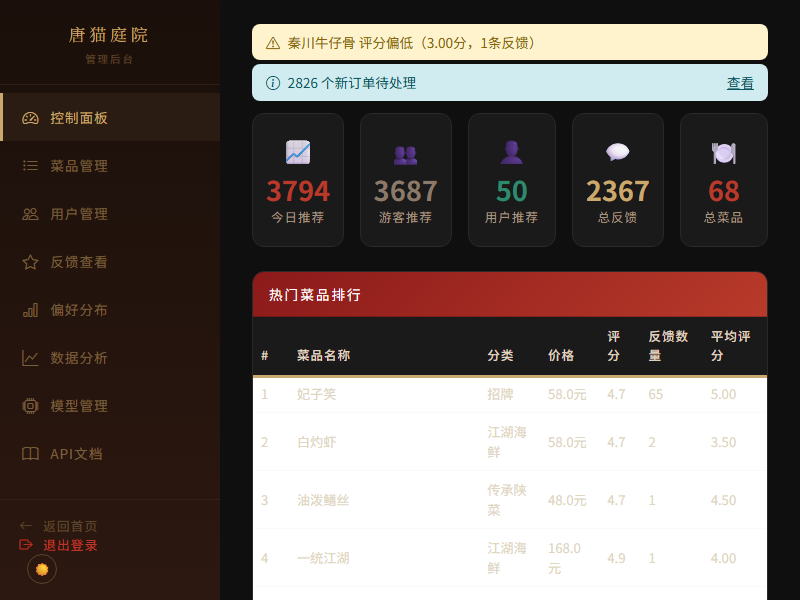
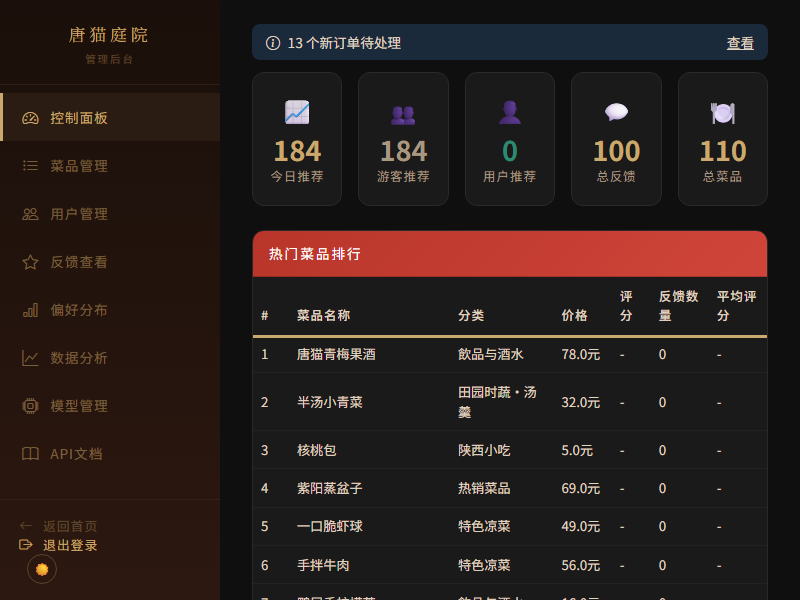
优化: 咸淡/热量规则摆幅升级(差2级以上-1→-2)+全面清理测试数据(170账号留3/清100反馈22订单)+模型迁移HistGB+重训R²0.959

diff --git a/assets/logo/preview.html b/assets/logo/preview.html
@@ -454,7 +454,7 @@
 
 <!-- 真实数据附录 -->
 <div style="max-width:900px;margin:36px auto 0;">
-<div class="card" style="padding:24px;"><h2 style="margin:0 0 6px;font-size:16px;letter-spacing:2px;">附 · 模型的十二维(真实数据)</h2><p style="margin:0 0 14px;font-size:12px;color:#756558;line-height:1.7;">上面 H 案的十二边形不是抽象装饰 — 这就是它的真身:当前随机森林模型(2026-09-16 训练,留出 R²=0.974)真实学到的十二个特征权重。用户口味侧主导(用户甜酸 27%),价格侧次之(22.8%);「评分」权重为 0 — 项目未上线,菜品评分均为默认值 3.5,常量特征不产生信息(预期行为)。上线后每次重训,此图自动更新。<br><b>怎么读这张图:</b>特征重要性是<b>全局平均贡献</b>(该特征在全部训练样本上带来的可分性占比),不是"单次预测是否被使用"。咸淡/热量权重低,是因为菜品分布聚集(71% 咸淡="适中",42 道饮品无热量)导致多数比较为平局 — 但实测模型对真实错配照样惩罚(用户清淡时,偏咸菜被打低 0.04~0.15)。低权重 ≠ 被忽视;真正完全无信号的是恒定特征(评分,全为默认 3.5)。</p><svg xmlns="http://www.w3.org/2000/svg" viewBox="-90 0 580 450" style="width:100%;max-width:900px;height:auto;display:block;margin:0 auto;" font-family="sans-serif"><rect x="-90" y="0" width="580" height="450" fill="#faf6f0"/><text x="250" y="30" text-anchor="middle" font-size="16" fill="#2c1810">随机森林模型 · 12 特征重要性(真实数据)</text><text x="250" y="52" text-anchor="middle" font-size="11" fill="#756558">数据源:feature_importance.json · 2026-09-17 训练 · 留出 R²=0.970</text><circle cx="250" cy="235" r="23.3" fill="none" stroke="#c9a96e" stroke-width="0.8" opacity="0.5"/><text x="254" y="224.66666666666666" font-size="10" fill="#a08b6a">5%</text><circle cx="250" cy="235" r="46.7" fill="none" stroke="#c9a96e" stroke-width="0.8" opacity="0.5"/><text x="254" y="201.33333333333334" font-size="10" fill="#a08b6a">10%</text><circle cx="250" cy="235" r="70.0" fill="none" stroke="#c9a96e" stroke-width="0.8" opacity="0.5"/><text x="254" y="178" font-size="10" fill="#a08b6a">15%</text><circle cx="250" cy="235" r="93.3" fill="none" stroke="#c9a96e" stroke-width="0.8" opacity="0.5"/><text x="254" y="154.66666666666669" font-size="10" fill="#a08b6a">20%</text><circle cx="250" cy="235" r="116.7" fill="none" stroke="#c9a96e" stroke-width="0.8" opacity="0.5"/><text x="254" y="131.33333333333331" font-size="10" fill="#a08b6a">25%</text><circle cx="250" cy="235" r="140.0" fill="none" stroke="#c9a96e" stroke-width="0.8" opacity="0.5"/><text x="254" y="108" font-size="10" fill="#a08b6a">30%</text><line x1="250" y1="235" x2="250.0" y2="95.0" stroke="#c9a96e" stroke-width="0.8" opacity="0.5"/><text x="250.0" y="65.0" font-size="14" fill="#2c1810" text-anchor="middle">辣度 5.97%</text><line x1="250" y1="235" x2="320.0" y2="113.8" stroke="#c9a96e" stroke-width="0.8" opacity="0.5"/><text x="332.0" y="97.0" font-size="14" fill="#2c1810" text-anchor="start">咸淡 3.48%</text><line x1="250" y1="235" x2="371.2" y2="165.0" stroke="#c9a96e" stroke-width="0.8" opacity="0.5"/><text x="392.0" y="157.0" font-size="14" fill="#2c1810" text-anchor="start">甜酸 3.98%</text><line x1="250" y1="235" x2="390.0" y2="235.0" stroke="#c9a96e" stroke-width="0.8" opacity="0.5"/><text x="414.0" y="239.0" font-size="14" fill="#2c1810" text-anchor="start">热量 2.4%</text><line x1="250" y1="235" x2="371.2" y2="305.0" stroke="#c9a96e" stroke-width="0.8" opacity="0.5"/><text x="392.0" y="321.0" font-size="14" fill="#2c1810" text-anchor="start">价格 18.52%</text><line x1="250" y1="235" x2="320.0" y2="356.2" stroke="#c9a96e" stroke-width="0.8" opacity="0.5"/><text x="332.0" y="381.0" font-size="14" fill="#2c1810" text-anchor="start">招牌 0.45%</text><line x1="250" y1="235" x2="250.0" y2="375.0" stroke="#c9a96e" stroke-width="0.8" opacity="0.5"/><text x="250.0" y="411.0" font-size="14" fill="#2c1810" text-anchor="middle">评分 0%</text><line x1="250" y1="235" x2="180.0" y2="356.2" stroke="#c9a96e" stroke-width="0.8" opacity="0.5"/><text x="168.0" y="381.0" font-size="14" fill="#2c1810" text-anchor="end">用户辣度 18.35%</text><line x1="250" y1="235" x2="128.8" y2="305.0" stroke="#c9a96e" stroke-width="0.8" opacity="0.5"/><text x="108.0" y="321.0" font-size="14" fill="#2c1810" text-anchor="end">用户咸淡 4.65%</text><line x1="250" y1="235" x2="110.0" y2="235.0" stroke="#c9a96e" stroke-width="0.8" opacity="0.5"/><text x="86.0" y="239.0" font-size="14" fill="#2c1810" text-anchor="end">用户甜酸 23.15%</text><line x1="250" y1="235" x2="128.8" y2="165.0" stroke="#c9a96e" stroke-width="0.8" opacity="0.5"/><text x="108.0" y="157.0" font-size="14" fill="#2c1810" text-anchor="end">用户价格 15.13%</text><line x1="250" y1="235" x2="180.0" y2="113.8" stroke="#c9a96e" stroke-width="0.8" opacity="0.5"/><text x="168.0" y="97.0" font-size="14" fill="#2c1810" text-anchor="end">用户热量 3.91%</text><polygon points="250.0,207.1 258.1,220.9 266.1,225.7 261.2,235.0 324.8,278.2 251.1,236.8 250.0,235.0 207.2,309.2 231.2,245.8 142.0,235.0 188.9,199.7 240.9,219.2" fill="#b83a2a" opacity="0.82" stroke="#b83a2a" stroke-width="2"/><circle cx="250.0" cy="207.1" r="3.2" fill="#c9a96e" stroke="#b83a2a" stroke-width="1"/><circle cx="258.1" cy="220.9" r="3.2" fill="#c9a96e" stroke="#b83a2a" stroke-width="1"/><circle cx="266.1" cy="225.7" r="3.2" fill="#c9a96e" stroke="#b83a2a" stroke-width="1"/><circle cx="261.2" cy="235.0" r="3.2" fill="#c9a96e" stroke="#b83a2a" stroke-width="1"/><circle cx="324.8" cy="278.2" r="3.2" fill="#c9a96e" stroke="#b83a2a" stroke-width="1"/><circle cx="207.2" cy="309.2" r="3.2" fill="#c9a96e" stroke="#b83a2a" stroke-width="1"/><circle cx="231.2" cy="245.8" r="3.2" fill="#c9a96e" stroke="#b83a2a" stroke-width="1"/><circle cx="142.0" cy="235.0" r="3.2" fill="#c9a96e" stroke="#b83a2a" stroke-width="1"/><circle cx="188.9" cy="199.7" r="3.2" fill="#c9a96e" stroke="#b83a2a" stroke-width="1"/><circle cx="240.9" cy="219.2" r="3.2" fill="#c9a96e" stroke="#b83a2a" stroke-width="1"/></svg></div></div>
+<div class="card" style="padding:24px;"><h2 style="margin:0 0 6px;font-size:16px;letter-spacing:2px;">附 · 模型的十二维(真实数据)</h2><p style="margin:0 0 14px;font-size:12px;color:#756558;line-height:1.7;">上面 H 案的十二边形不是抽象装饰 — 这就是它的真身:当前随机森林模型(2026-09-16 训练,留出 R²=0.974)真实学到的十二个特征权重。用户口味侧主导(用户甜酸 27%),价格侧次之(22.8%);「评分」权重为 0 — 项目未上线,菜品评分均为默认值 3.5,常量特征不产生信息(预期行为)。上线后每次重训,此图自动更新。<br><b>怎么读这张图:</b>特征重要性是<b>全局平均贡献</b>(该特征在全部训练样本上带来的可分性占比),不是"单次预测是否被使用"。咸淡/热量权重低,是因为菜品分布聚集(71% 咸淡="适中",42 道饮品无热量)导致多数比较为平局 — 但实测模型对真实错配照样惩罚(用户清淡时,偏咸菜被打低 0.04~0.15)。低权重 ≠ 被忽视;真正完全无信号的是恒定特征(评分,全为默认 3.5)。</p><svg xmlns="http://www.w3.org/2000/svg" viewBox="-90 0 580 450" style="width:100%;max-width:900px;height:auto;display:block;margin:0 auto;" font-family="sans-serif"><rect x="-90" y="0" width="580" height="450" fill="#faf6f0"/><text x="250" y="30" text-anchor="middle" font-size="16" fill="#2c1810">推荐模型 · 12 特征重要性(真实数据)</text><text x="250" y="52" text-anchor="middle" font-size="11" fill="#756558">数据源:feature_importance.json · 2026-09-17 规则负分化后重训 · 留出 R²=0.959</text><circle cx="250" cy="235" r="23.3" fill="none" stroke="#c9a96e" stroke-width="0.8" opacity="0.5"/><text x="254" y="224.66666666666666" font-size="10" fill="#a08b6a">5%</text><circle cx="250" cy="235" r="46.7" fill="none" stroke="#c9a96e" stroke-width="0.8" opacity="0.5"/><text x="254" y="201.33333333333334" font-size="10" fill="#a08b6a">10%</text><circle cx="250" cy="235" r="70.0" fill="none" stroke="#c9a96e" stroke-width="0.8" opacity="0.5"/><text x="254" y="178" font-size="10" fill="#a08b6a">15%</text><circle cx="250" cy="235" r="93.3" fill="none" stroke="#c9a96e" stroke-width="0.8" opacity="0.5"/><text x="254" y="154.66666666666669" font-size="10" fill="#a08b6a">20%</text><circle cx="250" cy="235" r="116.7" fill="none" stroke="#c9a96e" stroke-width="0.8" opacity="0.5"/><text x="254" y="131.33333333333331" font-size="10" fill="#a08b6a">25%</text><circle cx="250" cy="235" r="140.0" fill="none" stroke="#c9a96e" stroke-width="0.8" opacity="0.5"/><text x="254" y="108" font-size="10" fill="#a08b6a">30%</text><line x1="250" y1="235" x2="250.0" y2="95.0" stroke="#c9a96e" stroke-width="0.8" opacity="0.5"/><text x="250.0" y="65.0" font-size="14" fill="#2c1810" text-anchor="middle">辣度 7.7%</text><line x1="250" y1="235" x2="320.0" y2="113.8" stroke="#c9a96e" stroke-width="0.8" opacity="0.5"/><text x="332.0" y="97.0" font-size="14" fill="#2c1810" text-anchor="start">咸淡 3.22%</text><line x1="250" y1="235" x2="371.2" y2="165.0" stroke="#c9a96e" stroke-width="0.8" opacity="0.5"/><text x="392.0" y="157.0" font-size="14" fill="#2c1810" text-anchor="start">甜酸 4.06%</text><line x1="250" y1="235" x2="390.0" y2="235.0" stroke="#c9a96e" stroke-width="0.8" opacity="0.5"/><text x="414.0" y="239.0" font-size="14" fill="#2c1810" text-anchor="start">热量 3.63%</text><line x1="250" y1="235" x2="371.2" y2="305.0" stroke="#c9a96e" stroke-width="0.8" opacity="0.5"/><text x="392.0" y="321.0" font-size="14" fill="#2c1810" text-anchor="start">价格 13.2%</text><line x1="250" y1="235" x2="320.0" y2="356.2" stroke="#c9a96e" stroke-width="0.8" opacity="0.5"/><text x="332.0" y="381.0" font-size="14" fill="#2c1810" text-anchor="start">招牌 0.29%</text><line x1="250" y1="235" x2="250.0" y2="375.0" stroke="#c9a96e" stroke-width="0.8" opacity="0.5"/><text x="250.0" y="411.0" font-size="14" fill="#2c1810" text-anchor="middle">评分 0%</text><line x1="250" y1="235" x2="180.0" y2="356.2" stroke="#c9a96e" stroke-width="0.8" opacity="0.5"/><text x="168.0" y="381.0" font-size="14" fill="#2c1810" text-anchor="end">用户辣度 23.84%</text><line x1="250" y1="235" x2="128.8" y2="305.0" stroke="#c9a96e" stroke-width="0.8" opacity="0.5"/><text x="108.0" y="321.0" font-size="14" fill="#2c1810" text-anchor="end">用户咸淡 5.33%</text><line x1="250" y1="235" x2="110.0" y2="235.0" stroke="#c9a96e" stroke-width="0.8" opacity="0.5"/><text x="86.0" y="239.0" font-size="14" fill="#2c1810" text-anchor="end">用户甜酸 16.92%</text><line x1="250" y1="235" x2="128.8" y2="165.0" stroke="#c9a96e" stroke-width="0.8" opacity="0.5"/><text x="108.0" y="157.0" font-size="14" fill="#2c1810" text-anchor="end">用户价格 17.47%</text><line x1="250" y1="235" x2="180.0" y2="113.8" stroke="#c9a96e" stroke-width="0.8" opacity="0.5"/><text x="168.0" y="97.0" font-size="14" fill="#2c1810" text-anchor="end">用户热量 4.34%</text><polygon points="250.0,199.1 257.5,222.0 266.4,225.5 266.9,235.0 303.3,265.8 250.7,236.2 250.0,235.0 194.4,331.3 228.5,247.4 171.0,235.0 179.4,194.2 239.9,217.5" fill="#b83a2a" opacity="0.82" stroke="#b83a2a" stroke-width="2"/><circle cx="250.0" cy="199.1" r="3.2" fill="#c9a96e" stroke="#b83a2a" stroke-width="1"/><circle cx="257.5" cy="222.0" r="3.2" fill="#c9a96e" stroke="#b83a2a" stroke-width="1"/><circle cx="266.4" cy="225.5" r="3.2" fill="#c9a96e" stroke="#b83a2a" stroke-width="1"/><circle cx="266.9" cy="235.0" r="3.2" fill="#c9a96e" stroke="#b83a2a" stroke-width="1"/><circle cx="303.3" cy="265.8" r="3.2" fill="#c9a96e" stroke="#b83a2a" stroke-width="1"/><circle cx="194.4" cy="331.3" r="3.2" fill="#c9a96e" stroke="#b83a2a" stroke-width="1"/><circle cx="228.5" cy="247.4" r="3.2" fill="#c9a96e" stroke="#b83a2a" stroke-width="1"/><circle cx="171.0" cy="235.0" r="3.2" fill="#c9a96e" stroke="#b83a2a" stroke-width="1"/><circle cx="179.4" cy="194.2" r="3.2" fill="#c9a96e" stroke="#b83a2a" stroke-width="1"/><circle cx="239.9" cy="217.5" r="3.2" fill="#c9a96e" stroke="#b83a2a" stroke-width="1"/></svg></div></div>
 
 <!-- 小尺寸引用的统一符号定义（与卡内浅底版一致） -->
 <svg width="0" height="0" style="position:absolute">

diff --git a/assets/logo/_project_directions.html b/assets/logo/_project_directions.html
@@ -1,0 +1,1 @@
+<!DOCTYPE html><html lang="zh-CN"><head><meta charset="UTF-8"><title>项目味 Logo · 三方向</title><style>body{margin:0;background:#efe9dc;color:#2c1810;font-family:serif;padding:32px 24px;}h1{font-size:22px;letter-spacing:6px;}.grid{display:grid;grid-template-columns:repeat(auto-fit,minmax(320px,1fr));gap:20px;max-width:1200px;}.card{background:#fff;border:1px solid #ddd2bc;border-radius:14px;overflow:hidden;box-shadow:0 2px 10px rgba(60,30,10,.08);}.card header{padding:14px 18px 10px;border-bottom:1px solid #eee2c8;}.card h2{margin:0;font-size:16px;letter-spacing:2px;}.card header p{margin:4px 0 0;font-size:12px;color:#756558;line-height:1.6;}.cell{background:#faf6f0;}</style></head><body><h1>项目味 Logo · 三方向(App 图标制式)</h1><div class="grid"><div class="card"><header><h2>方向一 · AI 猫首</h2><p>金猫首 + AI 星火:星火是当下 AI 产品的通用符号,猫首沿用已验证的几何。读作:AI 化的唐猫。</p></header><div class="cell"><div style="display:flex;justify-content:center;padding:26px 10px;"><svg viewBox="0 0 100 100" xmlns="http://www.w3.org/2000/svg" style="width:200px;height:200px"><rect x="2" y="2" width="96" height="96" rx="26" fill="#b83a2a"/><rect x="8" y="8" width="84" height="84" rx="20" fill="none" stroke="#c9a96e" stroke-width="1.4" opacity="0.55"/><g fill="#c9a96e"><circle cx="46" cy="56" r="20"/><path d="M30.5 45.5 L35 22 L46.5 37 Z"/><path d="M61.5 45.5 L57 22 L45.5 37 Z"/></g><g fill="#b83a2a"><circle cx="39.5" cy="54.5" r="2.9"/><circle cx="52.5" cy="54.5" r="2.9"/><path d="M44 61.5 L48 61.5 L46 64.5 Z"/></g><path transform="translate(70 26) scale(1.5)" d="M0,-10 C1.8,-2.2 2.2,-1.8 10,0 C2.2,1.8 1.8,2.2 0,10 C-1.8,2.2 -2.2,1.8 -10,0 C-2.2,-1.8 -1.8,-2.2 0,-10 Z" fill="#c9a96e"/><path transform="translate(58 14) scale(0.8)" d="M0,-10 C1.8,-2.2 2.2,-1.8 10,0 C2.2,1.8 1.8,2.2 0,10 C-1.8,2.2 -2.2,1.8 -10,0 C-2.2,-1.8 -1.8,-2.2 0,-10 Z" fill="#c9a96e"/></svg></div></div></div><div class="card"><header><h2>方向二 · 已为你选好</h2><p>猫首 + 勾选徽章:徽章是 App 的通知语言,直译核心体验「AI 帮你选好了」。读作:推荐已完成。</p></header><div class="cell"><div style="display:flex;justify-content:center;padding:26px 10px;"><svg viewBox="0 0 100 100" xmlns="http://www.w3.org/2000/svg" style="width:200px;height:200px"><rect x="2" y="2" width="96" height="96" rx="26" fill="#b83a2a"/><rect x="8" y="8" width="84" height="84" rx="20" fill="none" stroke="#c9a96e" stroke-width="1.4" opacity="0.55"/><g fill="#c9a96e"><circle cx="47" cy="47" r="19"/><path d="M32.5 37.5 L37 16 L47.5 30 Z"/><path d="M61.5 37.5 L57 16 L46.5 30 Z"/></g><g fill="#b83a2a"><circle cx="41" cy="45.5" r="2.7"/><circle cx="53" cy="45.5" r="2.7"/><path d="M45.2 52 L50.8 52 L48 55.4 Z"/></g><circle cx="68" cy="68" r="15" fill="#c9a96e"/><path d="M61.5 68 L66.5 73 L75 62.5" fill="none" stroke="#b83a2a" stroke-width="4.5" stroke-linecap="round" stroke-linejoin="round"/></svg></div></div></div><div class="card"><header><h2>方向三 · 推荐之碗</h2><p>一碗好菜 + 星火升起:碗是餐饮本位,星火是 AI。读作:AI 盛好了一碗。</p></header><div class="cell"><div style="display:flex;justify-content:center;padding:26px 10px;"><svg viewBox="0 0 100 100" xmlns="http://www.w3.org/2000/svg" style="width:200px;height:200px"><rect x="2" y="2" width="96" height="96" rx="26" fill="#b83a2a"/><rect x="8" y="8" width="84" height="84" rx="20" fill="none" stroke="#c9a96e" stroke-width="1.4" opacity="0.55"/><path d="M22 46 L78 46 A28 28 0 0 1 22 46 Z" fill="#c9a96e"/><path d="M28 60 L72 60 L66 72 A6 6 0 0 1 60.5 76 L39.5 76 A6 6 0 0 1 34 72 Z" fill="#c9a96e" opacity="0.75"/><path d="M36 40 L41 27 L48 36 Z" fill="#c9a96e"/><path d="M64 40 L59 27 L52 36 Z" fill="#c9a96e"/><path transform="translate(50 24) scale(1.3)" d="M0,-10 C1.8,-2.2 2.2,-1.8 10,0 C2.2,1.8 1.8,2.2 0,10 C-1.8,2.2 -2.2,1.8 -10,0 C-2.2,-1.8 -1.8,-2.2 0,-10 Z" fill="#c9a96e"/></svg></div></div></div></div></body></html>

diff --git a/script.js b/script.js
@@ -173,7 +173,7 @@ const CAL_ORDER={'低':0,'中':1,'高':2};
 // 辣度: 超出承受-2重罚; 精确+2; 差1级+1; 差2级+0
 function gradeScore(order,u,d){const ui=order[u],di=order[d];if(ui===undefined||di===undefined)return 0;if(di>ui)return -2;const diff=ui-di;return diff===0?2:diff===1?1:-1;}
 // 咸淡/热量: 无超出概念, 精确+2; 差1级+1; 差2级以上-1(2026-09-17:不匹配应有代价)
-function gradeScoreSoft(order,u,d){const ui=order[u],di=order[d];if(ui===undefined||di===undefined)return 0;const diff=Math.abs(ui-di);return diff===0?2:diff===1?0:-1;}
+function gradeScoreSoft(order,u,d){const ui=order[u],di=order[d];if(ui===undefined||di===undefined)return 0;const diff=Math.abs(ui-di);return diff===0?2:diff===1?0:-2;}  // 2026-09-17: 差2级以上-2,与价格摆幅同级(用户决策:咸淡/热量升级为一等维度)
 function computeDishMatch(prefs,dish){
  const md={taste:0,cuisine:0,calorie:0,rating:0,price:0};
  if(prefs['辣度']!=='无')md.taste+=gradeScore(SPICE_ORDER,prefs['辣度'],dish.spiciness);else md.taste+=2;

diff --git a/js/core.js b/js/core.js
@@ -73,7 +73,7 @@ const CAL_ORDER={'低':0,'中':1,'高':2};
 // 辣度: 超出承受-2重罚; 精确+2; 差1级+1; 差2级+0
 function gradeScore(order,u,d){const ui=order[u],di=order[d];if(ui===undefined||di===undefined)return 0;if(di>ui)return -2;const diff=ui-di;return diff===0?2:diff===1?1:-1;}
 // 咸淡/热量: 无超出概念, 精确+2; 差1级+1; 差2级以上-1(2026-09-17:不匹配应有代价)
-function gradeScoreSoft(order,u,d){const ui=order[u],di=order[d];if(ui===undefined||di===undefined)return 0;const diff=Math.abs(ui-di);return diff===0?2:diff===1?0:-1;}
+function gradeScoreSoft(order,u,d){const ui=order[u],di=order[d];if(ui===undefined||di===undefined)return 0;const diff=Math.abs(ui-di);return diff===0?2:diff===1?0:-2;}  // 2026-09-17: 差2级以上-2,与价格摆幅同级(用户决策:咸淡/热量升级为一等维度)
 function computeDishMatch(prefs,dish){
  const md={taste:0,cuisine:0,calorie:0,rating:0,price:0};
  if(prefs['辣度']!=='无')md.taste+=gradeScore(SPICE_ORDER,prefs['辣度'],dish.spiciness);else md.taste+=2;

diff --git a/train_restaurant_model.py b/train_restaurant_model.py
@@ -131,20 +131,20 @@ def compute_score(X, is_sig, price_val, rating_val, category):
     输出 0.1~1.0（= matchRate = total/14，与 computeDishMatch 的 matchRate 同口径）。"""
     # ── 口味 taste（-3 ~ +6）──
     taste = 0.0
-    # 辣度：菜比用户辣→-2(重罚)；精确→+2；差1级→+1；差2级以上→-1；无偏好→+2
+    # 辣度：菜比用户辣→-2(重罚)；精确→+2；差1级→+1；差2级以上→-2；无偏好→+2
     if X[7] == 0:        # 用户无辣度偏好
         taste += 2
     elif X[0] > X[7]:    # 菜比用户偏好辣
         taste -= 2
     else:
         d = X[7] - X[0]
-        taste += 2 if d == 0 else (1 if d == 1 else -1)
-    # 咸淡：精确→+2；差1级→+1；差2级以上→-1；无偏好→+2
+        taste += 2 if d == 0 else (1 if d == 1 else -2)
+    # 咸淡：精确→+2；差1级→+1；差2级以上→-2；无偏好→+2
     if X[8] == 0:
         taste += 2
     else:
         d = abs(X[1] - X[8])
-        taste += 2 if d == 0 else (1 if d == 1 else -1)
+        taste += 2 if d == 0 else (1 if d == 1 else -2)
     # 甜酸：精确→+2；不匹配→-1；无偏好→+2
     if X[9] == 0:
         taste += 2
@@ -158,12 +158,12 @@ def compute_score(X, is_sig, price_val, rating_val, category):
     # 注意：改这里必须同步改 script.js 的 computeDishMatch / fallback，否则训练与线上脱节。
     cuisine = 1.0 if is_sig else 0.0
 
-    # ── 热量 calorie：精确→+2；差1级→+1；差2级以上→-1；无偏好→+1 ──
+    # ── 热量 calorie：精确→+2；差1级→+1；差2级以上→-2；无偏好→+1 ──
     if X[11] == 0:       # 用户无热量偏好
         calorie = 1.0
     else:
         d = abs(X[3] - X[11])
-        calorie = 2.0 if d == 0 else (1.0 if d == 1 else -1.0)
+        calorie = 2.0 if d == 0 else (1.0 if d == 1 else -2.0)
 
     # ── 价格 price（三档制，与 computeDishMatch 一致）──
     if X[10] == 0:       # 无偏好
